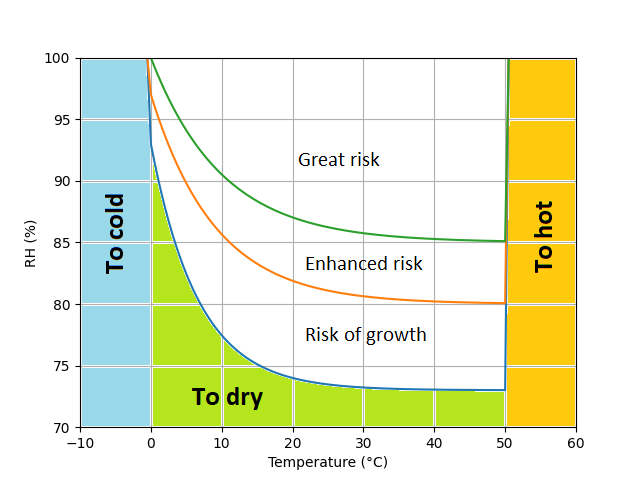
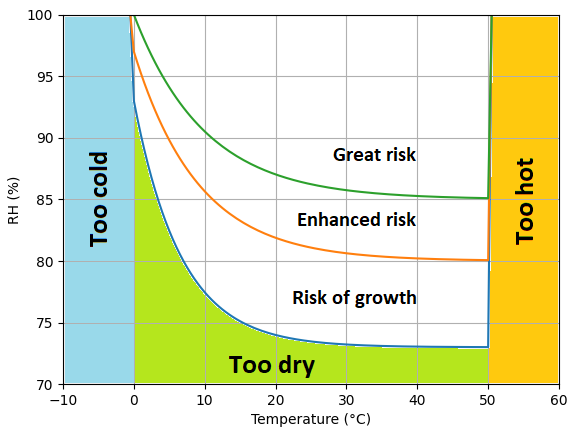
Typo and new reference for formulas.

diff --git a/README.md b/README.md
@@ -10,7 +10,7 @@ Calculate the risk of mold in a not heated confined space, like an unventilated 
 Here you normally have colder temperatures (in my part of the world) than inside your house most time of the year, and no surfaces that is much colder than the air inside. This means you can allow a higher humidity without the risk of mold. This integration can also be used for a not heated garage or attic for example.
 
 For spaces that are heated and where the risk of mold is close to cold surfaces (like in a bathroom) you should use the ["Mold Indicator"](https://www.home-assistant.io/integrations/mold_indicator/).
-The formulas for the "Mold Risk Index” is inspired by a forum thread in a Swedish house building forum at [byggahus.se](https://www.byggahus.se/forum/threads/formel-foer-riskkurva.311612).
+The formulas for the "Mold Risk Index” is inspired by a forum thread in a Swedish house building forum at [byggahus.se](https://www.byggahus.se/forum/threads/formel-foer-riskkurva.311612). Which in turn are originating (among others) from a publication by Hannu Viitanen named ["Factors affecting mould growth on kiln dried wood"](https://cris.vtt.fi/en/organisations/vtt-technical-research-centre-of-finland/publications/). *Search the net and you will find the publication*
 
 The risk of mold according to these formulas looks like this:
 ![Graph](/plot.png)
